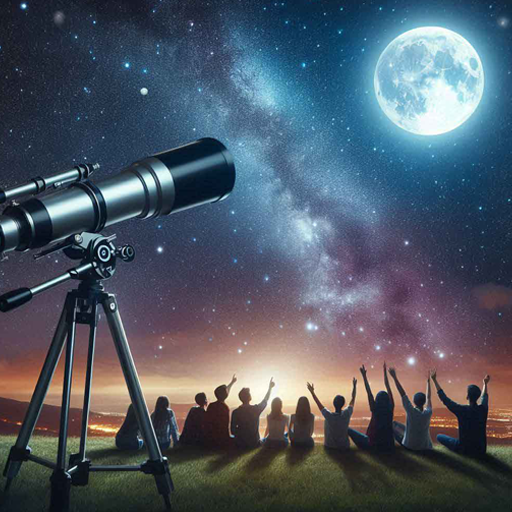
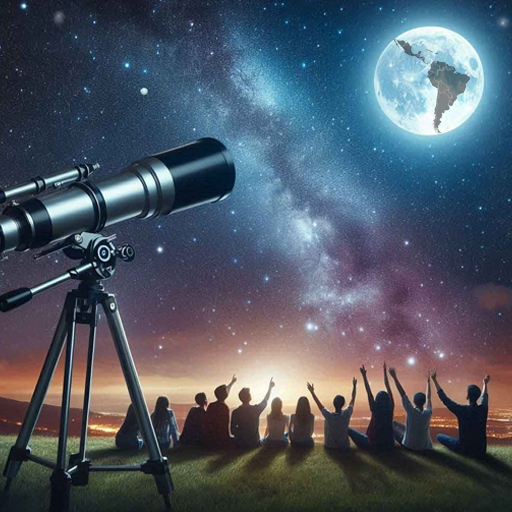
La galeria de ediciones esta lista pero no tiene links

Changed region(s): [[0.7812, 0.0625, 0.9375, 0.25]]

diff --git a/src/app/public/ediciones/ediciones.component.html b/src/app/public/ediciones/ediciones.component.html
@@ -51,5 +51,120 @@
             </div>
             <p class="text-[11px] leading-tight text-slate-600 dark:text-slate-400 font-bold italic uppercase">Buenos Aires, Argentina, 1997</p>
         </div>
-    </div>    
+    </div>
+    
+    <div class="grid grid-cols-1 md:grid-cols-3 gap-6">
+        <div class="space-y-2">
+            <div class="p-1 border border-slate-300 dark:border-slate-700 bg-white dark:bg-slate-800 shadow-sm">
+                <img alt="Vintage printing press" class="w-full grayscale brightness-90 contrast-125"
+                    src="./portadas/7.png" />
+            </div>
+            <p class="text-[11px] leading-tight text-slate-600 dark:text-slate-400 font-bold italic uppercase">Merida, Venezuela, 1993</p>
+        </div>
+        <div class="space-y-2">
+            <div class="p-1 border border-slate-300 dark:border-slate-700 bg-white dark:bg-slate-800 shadow-sm">
+                <img alt="Quiet morning in the city" class="w-full grayscale brightness-90 contrast-125"
+                    src="./portadas/8.png" />
+            </div>
+            <p class="text-[11px] leading-tight text-slate-600 dark:text-slate-400 font-bold italic uppercase">La Habana, Cuba, 1995</p>
+        </div>
+        <div class="space-y-2">
+            <div class="p-1 border border-slate-300 dark:border-slate-700 bg-white dark:bg-slate-800 shadow-sm">
+                <img alt="Detail of Brutalist facade" class="w-full grayscale brightness-90 contrast-125"
+                    src="./portadas/9.png" />
+            </div>
+            <p class="text-[11px] leading-tight text-slate-600 dark:text-slate-400 font-bold italic uppercase">Buenos Aires, Argentina, 1997</p>
+        </div>
+    </div>
+    
+    
+        <div class="grid grid-cols-1 md:grid-cols-3 gap-6">
+        <div class="space-y-2">
+            <div class="p-1 border border-slate-300 dark:border-slate-700 bg-white dark:bg-slate-800 shadow-sm">
+                <img alt="Vintage printing press" class="w-full grayscale brightness-90 contrast-125"
+                    src="./portadas/10.png" />
+            </div>
+            <p class="text-[11px] leading-tight text-slate-600 dark:text-slate-400 font-bold italic uppercase">Merida, Venezuela, 1993</p>
+        </div>
+        <div class="space-y-2">
+            <div class="p-1 border border-slate-300 dark:border-slate-700 bg-white dark:bg-slate-800 shadow-sm">
+                <img alt="Quiet morning in the city" class="w-full grayscale brightness-90 contrast-125"
+                    src="./portadas/11.png" />
+            </div>
+            <p class="text-[11px] leading-tight text-slate-600 dark:text-slate-400 font-bold italic uppercase">La Habana, Cuba, 1995</p>
+        </div>
+        <div class="space-y-2">
+            <div class="p-1 border border-slate-300 dark:border-slate-700 bg-white dark:bg-slate-800 shadow-sm">
+                <img alt="Detail of Brutalist facade" class="w-full grayscale brightness-90 contrast-125"
+                    src="./portadas/12.png" />
+            </div>
+            <p class="text-[11px] leading-tight text-slate-600 dark:text-slate-400 font-bold italic uppercase">Buenos Aires, Argentina, 1997</p>
+        </div>
+    </div>
+
+        <div class="grid grid-cols-1 md:grid-cols-3 gap-6">
+        <div class="space-y-2">
+            <div class="p-1 border border-slate-300 dark:border-slate-700 bg-white dark:bg-slate-800 shadow-sm">
+                <img alt="Vintage printing press" class="w-full grayscale brightness-90 contrast-125"
+                    src="./portadas/13.png" />
+            </div>
+            <p class="text-[11px] leading-tight text-slate-600 dark:text-slate-400 font-bold italic uppercase">Merida, Venezuela, 1993</p>
+        </div>
+        <div class="space-y-2">
+            <div class="p-1 border border-slate-300 dark:border-slate-700 bg-white dark:bg-slate-800 shadow-sm">
+                <img alt="Quiet morning in the city" class="w-full grayscale brightness-90 contrast-125"
+                    src="./portadas/14.png" />
+            </div>
+            <p class="text-[11px] leading-tight text-slate-600 dark:text-slate-400 font-bold italic uppercase">La Habana, Cuba, 1995</p>
+        </div>
+        <div class="space-y-2">
+            <div class="p-1 border border-slate-300 dark:border-slate-700 bg-white dark:bg-slate-800 shadow-sm">
+                <img alt="Detail of Brutalist facade" class="w-full grayscale brightness-90 contrast-125"
+                    src="./portadas/15.png" />
+            </div>
+            <p class="text-[11px] leading-tight text-slate-600 dark:text-slate-400 font-bold italic uppercase">Buenos Aires, Argentina, 1997</p>
+        </div>
+    </div>
+
+    <div class="grid grid-cols-1 md:grid-cols-3 gap-6">
+        <div class="space-y-2">
+            <div class="p-1 border border-slate-300 dark:border-slate-700 bg-white dark:bg-slate-800 shadow-sm">
+                <img alt="Vintage printing press" class="w-full grayscale brightness-90 contrast-125"
+                    src="./portadas/16.png" />
+            </div>
+            <p class="text-[11px] leading-tight text-slate-600 dark:text-slate-400 font-bold italic uppercase">Merida, Venezuela, 1993</p>
+        </div>
+        <div class="space-y-2">
+            <div class="p-1 border border-slate-300 dark:border-slate-700 bg-white dark:bg-slate-800 shadow-sm">
+                <img alt="Quiet morning in the city" class="w-full grayscale brightness-90 contrast-125"
+                    src="./portadas/17.png" />
+            </div>
+            <p class="text-[11px] leading-tight text-slate-600 dark:text-slate-400 font-bold italic uppercase">La Habana, Cuba, 1995</p>
+        </div>
+        <div class="space-y-2">
+            <div class="p-1 border border-slate-300 dark:border-slate-700 bg-white dark:bg-slate-800 shadow-sm">
+                <img alt="Detail of Brutalist facade" class="w-full grayscale brightness-90 contrast-125"
+                    src="./portadas/18.png" />
+            </div>
+            <p class="text-[11px] leading-tight text-slate-600 dark:text-slate-400 font-bold italic uppercase">Buenos Aires, Argentina, 1997</p>
+        </div>
+    </div>
+
+    <div class="grid grid-cols-1 md:grid-cols-3 gap-6">
+        <div class="space-y-2">
+            <div class="p-1 border border-slate-300 dark:border-slate-700 bg-white dark:bg-slate-800 shadow-sm">
+                <img alt="Vintage printing press" class="w-full grayscale brightness-90 contrast-125"
+                    src="./portadas/19.png" />
+            </div>
+            <p class="text-[11px] leading-tight text-slate-600 dark:text-slate-400 font-bold italic uppercase">Merida, Venezuela, 1993</p>
+        </div>
+        <div class="space-y-2">
+            <div class="p-1 border border-slate-300 dark:border-slate-700 bg-white dark:bg-slate-800 shadow-sm">
+                <img alt="Quiet morning in the city" class="w-full grayscale brightness-90 contrast-125"
+                    src="./portadas/20.png" />
+            </div>
+            <p class="text-[11px] leading-tight text-slate-600 dark:text-slate-400 font-bold italic uppercase">La Habana, Cuba, 1995</p>
+        </div>
+    </div>
+
 </section>

diff --git a/src/app/public/header/header.component.html b/src/app/public/header/header.component.html
@@ -2,9 +2,11 @@
 <!-- Top Utility Bar -->
 <nav class="flex items-center justify-between py-3 border-b newspaper-border text-sm uppercase tracking-widest font-semibold">
 <div class="flex items-center gap-6">
-<a class="hover:text-primary transition-colors" href="#">Login</a>
+<a class="hover:text-primary transition-colors" routerLink="/home">Inicio</a>
+
+
 <a class="hover:text-primary transition-colors" href="#">Subscribirse</a>
-<span class="hidden md:inline text-slate-500">59,2342 visitas</span>
+<span class="hidden md:inline text-slate-500">59,234 visitas</span>
 </div>
 <div class="flex items-center gap-6">
 <span class="dark:text-slate-100"><p>{{ today | date:'fullDate' }}</p>

diff --git a/src/app/public/header/header.component.ts b/src/app/public/header/header.component.ts
@@ -1,10 +1,11 @@
 import { Component } from '@angular/core';
 import { DatePipe } from '@angular/common';
+import { RouterModule } from '@angular/router';
 
 
 @Component({
   selector: 'app-header',
-  imports: [DatePipe],
+  imports: [DatePipe, RouterModule],
   templateUrl: './header.component.html',
   styleUrl: './header.component.css',
 })

diff --git a/src/app/app.config.ts b/src/app/app.config.ts
@@ -23,3 +23,4 @@ export const appConfig: ApplicationConfig = {
 
 
 
+